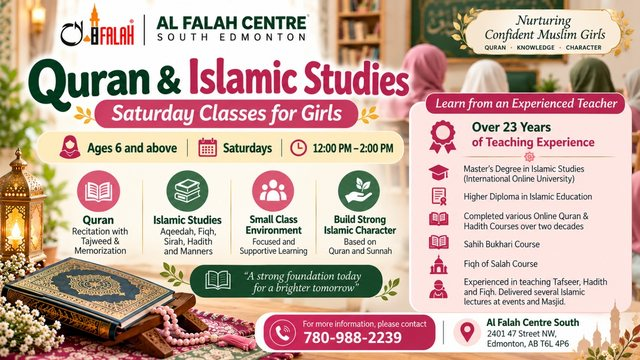
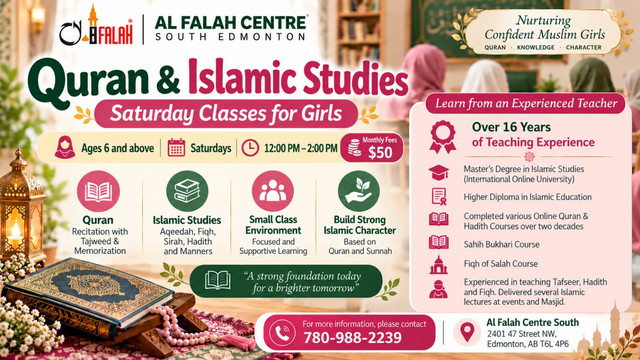
Center: update Saturday girls Quran & Islamic Studies poster
Replace the existing girls Saturday class poster with the revised flyer
(monthly fees $50, teaching experience updated to over 16 years). Keep
the same filenames and card layout. Update alt text and the matching
caption so they describe the new poster.

diff --git a/src/lib/posters.ts b/src/lib/posters.ts
@@ -45,14 +45,14 @@ export const programPosters: ProgramPoster[] = [
     eyebrow: "Saturday Classes for Girls",
     title: "Quran & Islamic Studies",
     caption:
-      "Nurturing confident Muslim girls through Quran, knowledge and character. Learn from an experienced teacher with over 23 years of teaching experience.",
+      "Nurturing confident Muslim girls through Quran, knowledge and character. Learn from an experienced teacher with over 16 years of teaching experience.",
     facts: [
       "Ages 6 and above",
       "Saturdays · 12:00 PM – 2:00 PM",
       "Quran, Islamic Studies, small class environment",
     ],
     alt:
-      "Al Falah Centre South Edmonton poster: Quran and Islamic Studies, Saturday classes for girls. Ages 6 and above, Saturdays 12:00 PM to 2:00 PM. Quran recitation with Tajweed and memorization; Islamic Studies covering Aqeedah, Fiqh, Sirah, Hadith and manners; small class environment with focused and supportive learning; building strong Islamic character based on Quran and Sunnah. A strong foundation today for a brighter tomorrow. Learn from an experienced teacher with over 23 years of teaching experience: Master's Degree in Islamic Studies (International Online University), Higher Diploma in Islamic Education, various online Quran and Hadith courses over two decades, Sahih Bukhari course, Fiqh of Salah course, experienced in teaching Tafseer, Hadith and Fiqh and has delivered several Islamic lectures at events and Masjid. For more information contact 780-988-2239. Al Falah Centre South, 2401 47 Street NW, Edmonton, AB T6L 4P6.",
+      "Al Falah Centre South Edmonton poster: Quran and Islamic Studies, Saturday classes for girls. Ages 6 and above, Saturdays 12:00 PM to 2:00 PM. Monthly fees $50. Quran recitation with Tajweed and memorization; Islamic Studies covering Aqeedah, Fiqh, Sirah, Hadith and manners; small class environment with focused and supportive learning; building strong Islamic character based on Quran and Sunnah. A strong foundation today for a brighter tomorrow. Learn from an experienced teacher with over 16 years of teaching experience: Master's Degree in Islamic Studies (International Online University), Higher Diploma in Islamic Education, various online Quran and Hadith courses over two decades, Sahih Bukhari course, Fiqh of Salah course, experienced in teaching Tafseer, Hadith and Fiqh and has delivered several Islamic lectures at events and Masjid. For more information contact 780-988-2239. Al Falah Centre South, 2401 47 Street NW, Edmonton, AB T6L 4P6.",
     primary: {
       label: "Call 780-988-2239",
       href: "tel:+17809882239",
